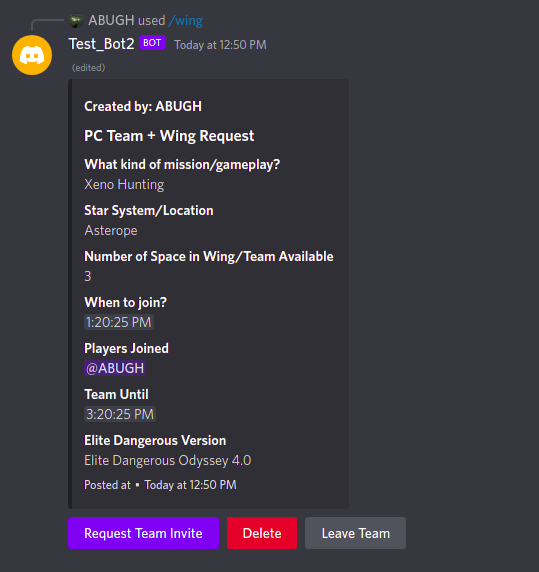
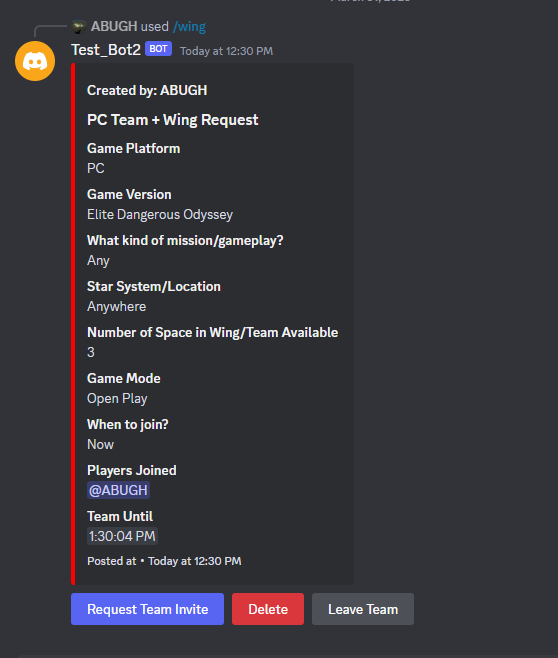
added additional field option

Changed region(s): [[0.0, 0.0297, 0.7718, 0.9808]]

diff --git a/utils/localization.ts b/utils/localization.ts
@@ -480,4 +480,36 @@ export default class CommandLocalizations {
     tr: "Hangi oyun modu, Özel Grup veya Açık Oynama?",
     uk: "Який режим гри, приватна група або відкрита гра?",
   };
+
+  static readonly LOOKING_FOR_TEAM_EXTRA_DESCRIPTION = {
+    "en-US": "Is there anything else you want to Add?",
+    "en-GB": "Is there anything else you want to Add?",
+    bg: "Има ли нещо друго, което искате да добавите?",
+    "zh-CN": "还有什么你想添加的吗？",
+    "zh-TW": "還有什麼你想添加的嗎？",
+    hr: "Je li još nešto što želite dodati?",
+    cs: "Ještě něco jiného, co chcete přidat?",
+    da: "Er der noget andet, du vil tilføje?",
+    nl: "Is er nog iets anders dat u wilt toevoegen?",
+    fi: "Onko mitään muuta, mitä haluat lisätä?",
+    fr: "Y a-t-il autre chose que vous voulez ajouter?",
+    de: "Gibt es noch etwas anderes, das Sie hinzufügen möchten?",
+    el: "Υπάρχει κάτι άλλο που θέλετε να προσθέσετε;",
+    hi: "क्या आप अपने जोड़ने के लिए कुछ और चाहते हैं?",
+    hu: "Van még valami, amit hozzá szeretne adni?",
+    it: "C'è altro che vuoi aggiungere?",
+    ja: "追加したいものはありますか？",
+    ko: "추가하고 싶은 게 더 있습니까?",
+    lt: "Ar yra dar ką nors, ką norite pridėti?",
+    no: "Er det noe annet du vil legge til?",
+    pl: "Czy jest jeszcze coś, co chcesz dodać?",
+    "pt-BR": "Há algo mais que você queira adicionar?",
+    ro: "Este ceva de adăugat?",
+    ru: "Есть ли еще что-то, что вы хотите добавить?",
+    "es-ES": "¿Hay algo más que quieras agregar?",
+    "sv-SE": "Är det något annat du vill lägga till?",
+    th: "มีอะไรอีกไหมที่คุณต้องการเพิ่ม?",
+    tr: "Eklemek istediğiniz başka bir şey var mı?",
+    uk: "Чи є ще щось, що ви хочете додати?",
+  };
 }

diff --git a/handlers/interactions/commandInteractions/wingInteraction.ts b/handlers/interactions/commandInteractions/wingInteraction.ts
@@ -103,6 +103,10 @@ async function wingInteraction(
     ).toFixed(2)
   );
 
+  // Additional Infomation if provided
+  let additionalInfo: string =
+    options.get(AppSettings.INTERACTION_EXTRA_ID)?.value?.toString() || "";
+
   // Check if the duration and when is valid
   if (
     !(await isValidDuration(interaction, duration)) ||
@@ -152,6 +156,12 @@ async function wingInteraction(
       : `<t:${getEpochTimeAfterHours(when)}:T>`,
     `${interaction.user}`,
   ];
+
+  // If additional info is provided then add it to the list
+  if (additionalInfo !== "") {
+    listFieldValue.push(additionalInfo);
+    listFieldheading.push(AppSettings.BOT_WING_ADDITIONAL_FIELD_NAME);
+  }
 
   // Title for the embed message
   let title: string = getWingMessageTitle(platformValue);

diff --git a/utils/settings.ts b/utils/settings.ts
@@ -24,6 +24,7 @@ export class AppSettings {
   static readonly PS_WING_REQUEST_INTERACTION_TITLE =
     "Play Station Wing Request";
   static readonly BOT_WING_DURATION_FIELD_NAME = "Team Until";
+  static readonly BOT_WING_ADDITIONAL_FIELD_NAME = "Additional Info";
   static readonly BOT_WING_FIELDS = [
     "Game Platform",
     "Game Version",
@@ -57,6 +58,7 @@ export class AppSettings {
   static readonly INTERACTION_DAY_NAME_ID = "day";
   static readonly INTERACTION_SYSTEM_NAME_ID = "system_name";
   static readonly INTERACTION_DISMISS_ID = "command_dismiss";
+  static readonly INTERACTION_EXTRA_ID = "extra";
 
   // Interaction field description
   static readonly INTERACTION_GAME_VERSION_DESCRIPTION =

diff --git a/handlers/commands.ts b/handlers/commands.ts
@@ -120,6 +120,15 @@ function setCommands(client: Client) {
           required: false,
           type: ApplicationCommandOptionType.Number,
         },
+        {
+          name: AppSettings.INTERACTION_EXTRA_ID,
+          description:
+            CommandLocalizations.LOOKING_FOR_TEAM_EXTRA_DESCRIPTION["en-US"],
+          description_localizations:
+            CommandLocalizations.LOOKING_FOR_TEAM_EXTRA_DESCRIPTION,
+          required: false,
+          type: ApplicationCommandOptionType.String,
+        },
       ],
     })
     .catch((error) => console.error("Error creating command: ", error));
